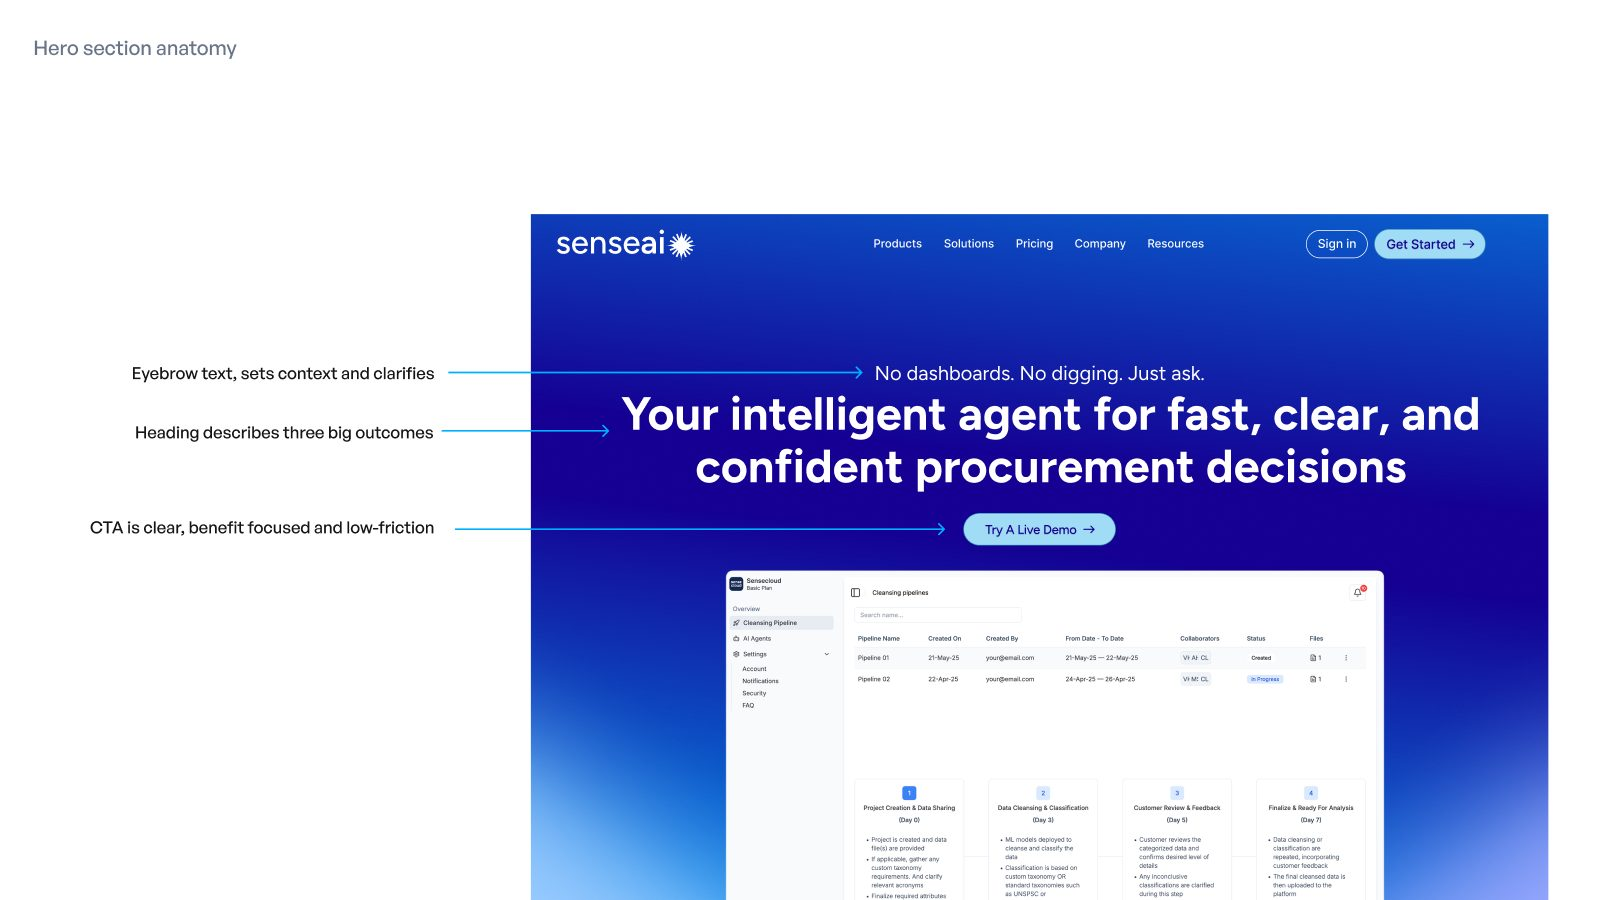
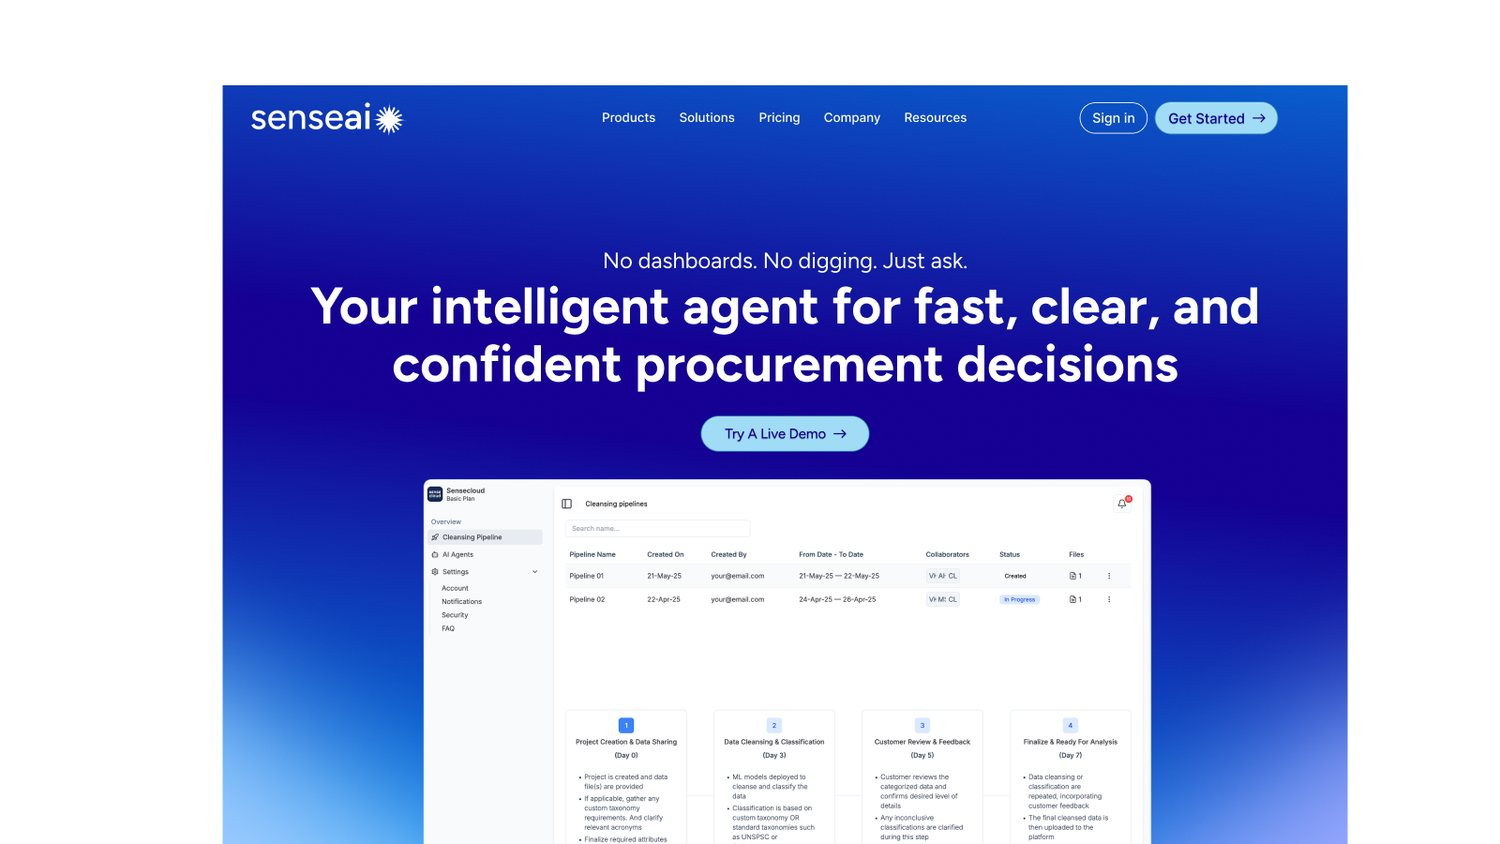
Add design process to Sensecloud and Insider case studies
Pull the process from the Figma files that the site had been cutting:
- Sensecloud: competitor research, logo overview, the mark, anatomy &
  construction grid, scale variants, hero anatomy; clean hero as opener
- Insider: event target audience, type/font rationale (Whyte Inktrap vs
  Söhne), and moodboard — the groundwork behind the Uplift identity

Claude-Session: https://claude.ai/code/session_01Pp782JCzyUxxDUfgbCFXi7

diff --git a/work/sensecloud.html b/work/sensecloud.html
@@ -79,12 +79,17 @@ footer{padding:1.5rem 2.5rem;border-top:.5px solid var(--border);display:flex;ju
 </div>
 <div class="full"><figure class="figure hero"><img src="../images/work/sensecloud/hero.jpg" alt="Sensecloud — Brand &amp; Web" /></figure></div>
 <section class="prose"><h2>Overview</h2><p>SenseAI is an AI agent for procurement — a product whose promise is clarity: faster, clearer, more confident buying decisions. The brand had to feel exactly that way, from the mark outward.</p></section>
-<section class="prose"><h2>The identity</h2><p>A rounded wordmark paired with a radiant burst symbol — a small flash of clarity that reads as a spark of insight. It works as a logo, a favicon, and an accent, and it anchors a clean, confident blue system.</p></section>
-<div class="full"><figure class="figure"><img loading="lazy" src="../images/work/sensecloud/g1.jpg" alt="The SenseAI wordmark and burst symbol." /></figure><div class=cap>The SenseAI wordmark and burst symbol.</div></div>
-<div class="full"><div class="gal2"><figure class="figure"><img loading="lazy" src="../images/work/sensecloud/g2.jpg" alt="Brand applied across layouts." /></figure><figure class="figure"><img loading="lazy" src="../images/work/sensecloud/g3.jpg" alt="System detail and usage." /></figure></div><div class=cap>Brand applied across layouts. System detail and usage.</div></div>
-<section class="prose"><h2>In use</h2><p>The identity extends to a hero website and a set of social banners, keeping one burst and one voice across every touchpoint.</p></section>
-<div class="full"><div class="gal2"><figure class="figure"><img loading="lazy" src="../images/work/sensecloud/g4.jpg" alt="Social creative." /></figure><figure class="figure"><img loading="lazy" src="../images/work/sensecloud/g5.jpg" alt="A second social format." /></figure></div><div class=cap>Social creative. A second social format.</div></div>
-<section class="prose"><h2>Outcome</h2><p>A complete, flexible brand system — mark, website and social — that gives an AI procurement product the clear, confident presence its promise depends on.</p></section>
+<section class="prose"><h2>Research</h2><p>I started by looking at the category — Scoutbee, Coupa, Zycus, GEP and others. They lean on futuristic design, iceberg metaphors and abstract AI motifs: powerful, but often distant or overwhelming. SenseAI needed the opposite — friendly, grounded and easy to trust — so the direction became a rounded typeface and a radiant symbol instead.</p></section>
+<div class="full"><figure class="figure"><img loading="lazy" src="../images/work/sensecloud/proc_research.jpg" alt="Competitor research — Scoutbee, Coupa, Zycus, GEP and others." /></figure><div class=cap>Competitor landscape — the futuristic, abstract norm SenseAI deliberately moves away from.</div></div>
+<section class="prose"><h2>The identity</h2><p>A rounded wordmark paired with a radiant burst — a small flash of clarity that reads as a spark of insight. The type stays approachable; the burst carries the intelligence. Together they anchor a clean, confident blue system.</p></section>
+<div class="full"><div class="gal2"><figure class="figure"><img loading="lazy" src="../images/work/sensecloud/proc_logo.jpg" alt="SenseAI logo — overview and design intent." /></figure><figure class="figure"><img loading="lazy" src="../images/work/sensecloud/proc_mark.jpg" alt="The standalone radiant-burst mark." /></figure></div><div class=cap>The wordmark and the standalone burst mark — the intelligence engine at the heart of the product.</div></div>
+<section class="prose"><h2>Anatomy &amp; construction</h2><p>The mark is built on a grid: a central star for the spark of insight breaking through complexity, wrapped in a form that signals movement, repetition and computing power. It&rsquo;s drawn to stay scalable, recognisable and crisp at any size, from a favicon to a hero.</p></section>
+<div class="full"><figure class="figure"><img loading="lazy" src="../images/work/sensecloud/proc_anatomy.jpg" alt="Logo anatomy — construction grid and symbolism." /></figure><div class=cap>Logo anatomy — the star of insight plus the computing-power form, constructed on a grid.</div></div>
+<div class="full"><figure class="figure"><img loading="lazy" src="../images/work/sensecloud/proc_scale.jpg" alt="Wordmark across colour variants." /></figure><div class=cap>Scalable across positive, reversed and dark variants.</div></div>
+<section class="prose"><h2>In use</h2><p>The identity extends to a hero website — laid out around a clear eyebrow, outcome-led headline and low-friction CTA — and a set of social banners, keeping one burst and one voice across every touchpoint.</p></section>
+<div class="full"><figure class="figure"><img loading="lazy" src="../images/work/sensecloud/proc_hero.jpg" alt="Hero website anatomy with annotations." /></figure><div class=cap>Hero anatomy — eyebrow sets context, the heading names three outcomes, the CTA stays low-friction.</div></div>
+<div class="full"><div class="gal2"><figure class="figure"><img loading="lazy" src="../images/work/sensecloud/g2.jpg" alt="Brand applied across layouts." /></figure><figure class="figure"><img loading="lazy" src="../images/work/sensecloud/g4.jpg" alt="Social creative." /></figure></div><div class=cap>The system applied across the website and social banners.</div></div>
+<section class="prose"><h2>Outcome</h2><p>A complete brand system — research, mark, construction, website and social — that gives an AI procurement product the clear, confident presence its promise depends on.</p></section>
 <div class="prose">
   <h2>Deliverables</h2>
   <div class="delv"><span class="pill">Logo &amp; Wordmark</span><span class="pill">Hero Website</span><span class="pill">Social Creative</span><span class="pill">Visual System</span><span class="pill">Brand Guidelines</span></div>

diff --git a/work/insider.html b/work/insider.html
@@ -81,7 +81,12 @@ footer{padding:1.5rem 2.5rem;border-top:.5px solid var(--border);display:flex;ju
 <section class="prose"><h2>Overview</h2><p>Insider helps brands personalise customer experiences. For the beauty and cosmetics vertical, the work spanned two connected pieces: an in-depth digital growth guide, and the identity and promotion for Uplift — the brand&#x27;s customer-experience event.</p></section>
 <section class="prose"><h2>The guide</h2><p>The growth guide combines editorial layout, lifestyle photography art direction and data visualisation into something marketers actually want to read. Statistics, storytelling and product screens sit in one calm system, so dense material stays approachable and on-brand.</p></section>
 <div class="full"><div class="gal2"><figure class="figure"><img loading="lazy" src="../images/work/insider/g4.jpg" alt="Personalisation in the beauty industry — editorial spread." /></figure><figure class="figure"><img loading="lazy" src="../images/work/insider/g5.jpg" alt="Meet Insider — product and narrative in one layout." /></figure></div><div class=cap>Personalisation in the beauty industry — editorial spread. Meet Insider — product and narrative in one layout.</div></div>
-<section class="prose"><h2>The event</h2><p>Uplift 2025 needed an identity that could scale from a stage backdrop to a standee to social. A bold wordmark over fine contour lines in a warm palette carries across every surface, giving the event a single recognisable look.</p></section>
+<section class="prose"><h2>The event</h2><p>Uplift 2025 needed an identity that could scale from a stage backdrop to a standee to social. Before any of that, the design had to be grounded in who it was for and how it should feel.</p></section>
+<section class="prose"><h2>Who it&rsquo;s for</h2><p>The audience framed every decision: marketing leaders, e-commerce leaders, CRM &amp; loyalty managers, CX owners, Insider customers and digital-transformation leads — senior people who needed the event to feel credible and energising, not gimmicky.</p></section>
+<div class="full"><figure class="figure"><img loading="lazy" src="../images/work/insider/proc_audience.jpg" alt="Target audience — the segments the event identity was designed for." /></figure><div class=cap>Target audience — the segments the identity had to speak to.</div></div>
+<section class="prose"><h2>Type &amp; moodboard</h2><p>The wordmark came down to a type choice with a clear rationale: Whyte Inktrap — sharp, edgy, creative — against Söhne&rsquo;s neutral authority. The moodboard then set the warm gradient palette and the logo variations that carry the &ldquo;next step is up&rdquo; idea across the system.</p></section>
+<div class="full"><div class="gal2"><figure class="figure"><img loading="lazy" src="../images/work/insider/proc_fonts.jpg" alt="Font and type exploration for the Uplift wordmark." /></figure><figure class="figure"><img loading="lazy" src="../images/work/insider/proc_mood.jpg" alt="Moodboard — colour palette and logo variations." /></figure></div><div class=cap>Type exploration and moodboard — the rationale behind the wordmark and palette.</div></div>
+<section class="prose"><h2>The result</h2><p>From that groundwork, a bold wordmark over fine contour lines in a warm palette scales cleanly from the stage to a standee to a story ad.</p></section>
 <div class="full"><figure class="figure"><img loading="lazy" src="../images/work/insider/g1.jpg" alt="Uplift 2025 event standee — the identity scaled to a vertical format." /></figure><div class=cap>Uplift 2025 event standee — the identity scaled to a vertical format.</div></div>
 <div class="full"><div class="gal2"><figure class="figure"><img loading="lazy" src="../images/work/insider/g2.jpg" alt="Event promotion across social formats." /></figure><figure class="figure"><img loading="lazy" src="../images/work/insider/g3.jpg" alt="Adidas-led social and web display ads on the Insider system." /></figure></div><div class=cap>Event promotion across social formats. Adidas-led social and web display ads on the Insider system.</div></div>
 <section class="prose"><h2>Outcome</h2><p>A cohesive editorial and campaign system: a guide that positions Insider as a credible partner for beauty marketers, and an event identity that holds together from the main stage down to a story ad.</p></section>
